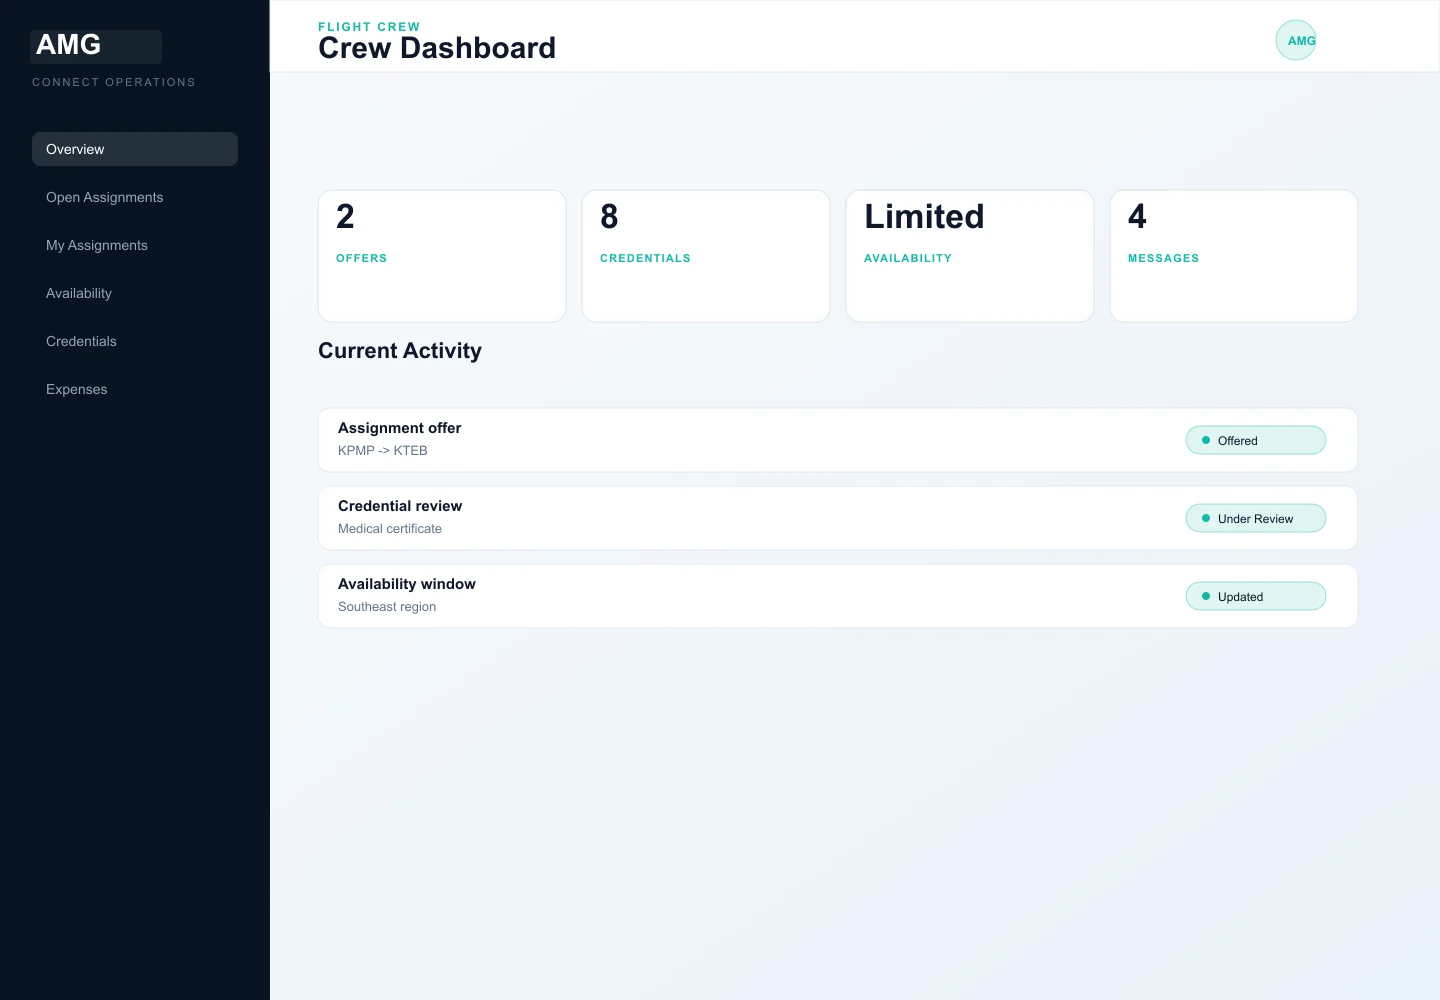
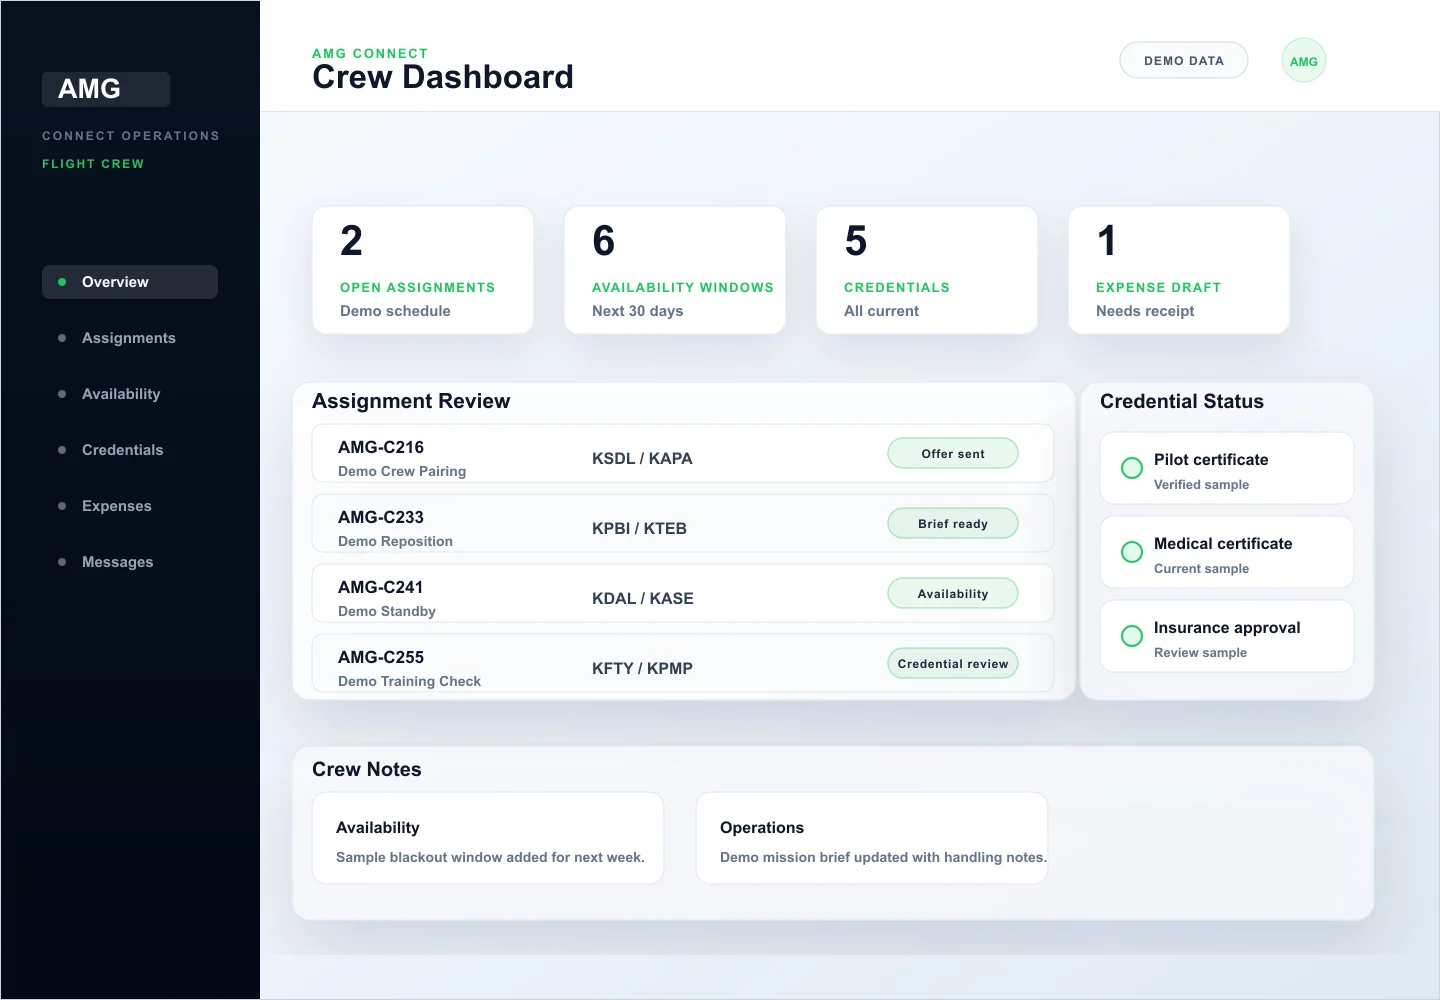
marketing: replace portal preview imagery

diff --git a/components/site/portal-dashboard-stack.tsx b/components/site/portal-dashboard-stack.tsx
@@ -1,0 +1,28 @@
+import { PortalScreenshotFrame } from "@/components/site/portal-screenshot-frame";
+import { cn } from "@/lib/utils";
+import { IMG } from "@/lib/site-media";
+
+export function PortalDashboardStack({
+  priority,
+  className,
+}: {
+  priority?: boolean;
+  className?: string;
+}) {
+  return (
+    <div className={cn("relative mx-auto w-full max-w-5xl pb-0 sm:pb-20", className)}>
+      <PortalScreenshotFrame
+        src={IMG.portalClientDashboard}
+        alt="AMG Connect client dashboard preview with sample support status data"
+        priority={priority}
+        className="relative z-10 w-full sm:w-[84%] sm:mx-0"
+      />
+      <PortalScreenshotFrame
+        src={IMG.portalCrewDashboard}
+        alt="AMG Connect crew dashboard preview with sample assignment and credential data"
+        priority={priority}
+        className="relative z-20 mt-4 w-full sm:absolute sm:bottom-0 sm:right-0 sm:mt-0 sm:w-[48%] sm:mx-0"
+      />
+    </div>
+  );
+}

diff --git a/components/site/home/connect-preview.tsx b/components/site/home/connect-preview.tsx
@@ -2,8 +2,8 @@ import Link from "next/link";
 import Image from "next/image";
 import { ArrowRight, ArrowUpRight } from "lucide-react";
 import { IMG } from "@/lib/site-media";
-import { PortalScreenshotFrame } from "@/components/site/portal-screenshot-frame";
-import { getWebsiteContentPage, imageSrcForKey } from "@/lib/website-editor/content";
+import { PortalDashboardStack } from "@/components/site/portal-dashboard-stack";
+import { getWebsiteContentPage } from "@/lib/website-editor/content";
 
 const FEATURES = [
   "Support requests",
@@ -18,7 +18,6 @@ const FEATURES = [
 export function ConnectPreview() {
   const content = getWebsiteContentPage("amg-connect");
   const section = content.sections.portalPreview;
-  const screenshot = imageSrcForKey(section.imageKey) ?? IMG.portalClientDashboard;
 
   return (
     <section className="oc-panel-graphite oc-section relative isolate overflow-hidden text-[var(--oc-paper)]">
@@ -27,7 +26,7 @@ export function ConnectPreview() {
         alt=""
         fill
         sizes="100vw"
-        className="absolute inset-0 -z-20 object-cover opacity-[0.2]"
+        className="absolute inset-0 -z-20 object-cover opacity-[0.34]"
       />
       <div className="absolute inset-0 -z-10 bg-[linear-gradient(90deg,rgba(5,11,20,0.98),rgba(7,17,31,0.9)_44%,rgba(5,11,20,0.96)),radial-gradient(circle_at_80%_28%,rgba(59,130,246,0.16),transparent_28rem)]" />
       <div className="oc-shell grid items-center gap-14 lg:grid-cols-[0.85fr_1.15fr]">
@@ -71,9 +70,7 @@ export function ConnectPreview() {
         </div>
 
         <div data-scroll-animate className="group [perspective:1600px]">
-          <PortalScreenshotFrame
-            src={screenshot}
-            alt="AMG client portal dashboard showing support requests and aircraft records"
+          <PortalDashboardStack
             priority
             className="transition-transform duration-500 will-change-transform group-hover:[transform:rotateX(1.5deg)_rotateY(-2deg)] motion-reduce:transition-none motion-reduce:group-hover:[transform:none]"
           />

diff --git a/components/site/home/home-page-wireframe.tsx b/components/site/home/home-page-wireframe.tsx
@@ -10,7 +10,7 @@ import {
   UsersRound,
   Wrench,
 } from "lucide-react";
-import { PortalScreenshotFrame } from "@/components/site/portal-screenshot-frame";
+import { PortalDashboardStack } from "@/components/site/portal-dashboard-stack";
 import { IMG } from "@/lib/site-media";
 
 const supportCards = [
@@ -200,7 +200,7 @@ function AmgConnectPreview() {
         alt=""
         fill
         sizes="100vw"
-        className="absolute inset-0 -z-20 object-cover opacity-[0.18]"
+        className="absolute inset-0 -z-20 object-cover opacity-[0.34]"
       />
       <div className="absolute inset-0 -z-10 bg-[linear-gradient(90deg,rgba(5,11,20,0.98),rgba(7,17,31,0.92)_52%,rgba(5,11,20,0.96))]" />
       <div className="oc-shell grid items-center gap-12 lg:grid-cols-[0.86fr_1.14fr]">
@@ -231,11 +231,7 @@ function AmgConnectPreview() {
           </div>
         </div>
         <div className="grid gap-4">
-          <PortalScreenshotFrame
-            src={IMG.portalClientDashboard}
-            alt="AMG Connect dashboard showing aircraft support requests and status"
-            priority
-          />
+          <PortalDashboardStack priority />
           <div className="grid grid-cols-3 gap-3 text-xs font-semibold text-[var(--amg-light-gray)]">
             <div className="rounded-lg border border-white/[0.12] bg-white/[0.06] p-3">
               <FileText className="mb-3 h-4 w-4 text-[var(--amg-accent-blue)]" aria-hidden="true" />

diff --git a/app/(public)/amg-connect/page.tsx b/app/(public)/amg-connect/page.tsx
@@ -2,7 +2,7 @@ import type { Metadata } from "next";
 import Link from "next/link";
 import { ArrowRight, CheckCircle2, FileText, MessageSquareText, ReceiptText, ShieldCheck } from "lucide-react";
 import { CtaBand, PageHero, SectionHeading } from "@/components/site/oc/shared";
-import { PortalScreenshotFrame } from "@/components/site/portal-screenshot-frame";
+import { PortalDashboardStack } from "@/components/site/portal-dashboard-stack";
 import { IMG } from "@/lib/site-media";
 
 export const metadata: Metadata = {
@@ -64,11 +64,7 @@ export default function AmgConnectPage() {
               ))}
             </div>
           </div>
-          <PortalScreenshotFrame
-            src={IMG.portalClientDashboard}
-            alt="AMG Connect client dashboard showing support request status"
-            priority
-          />
+          <PortalDashboardStack priority />
         </div>
       </section>
 